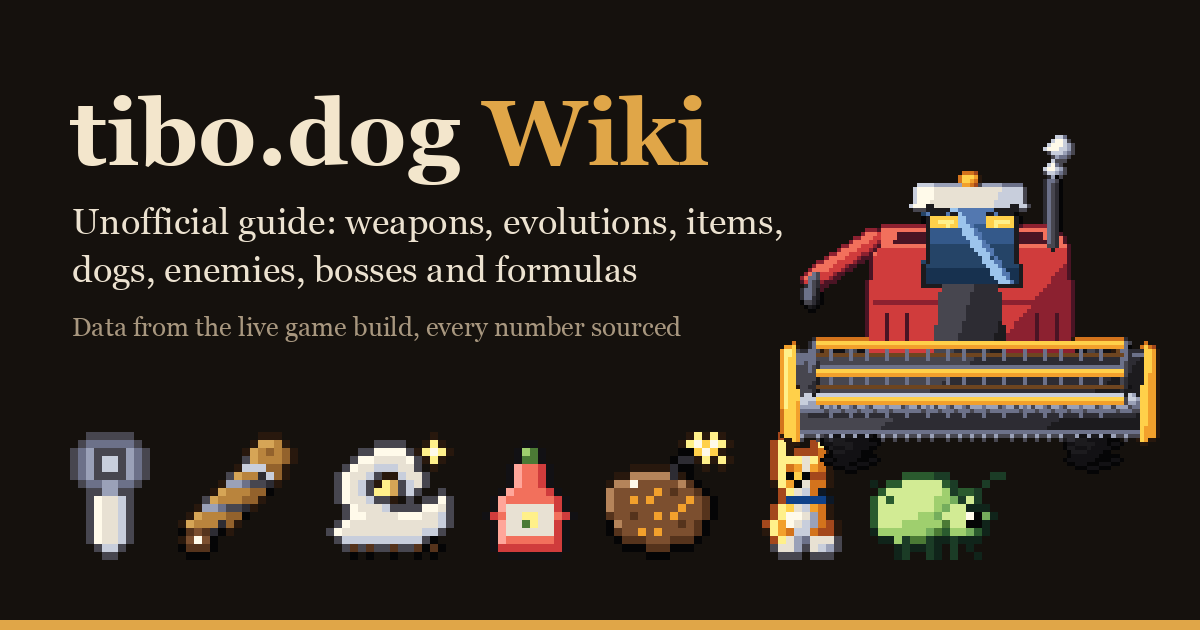
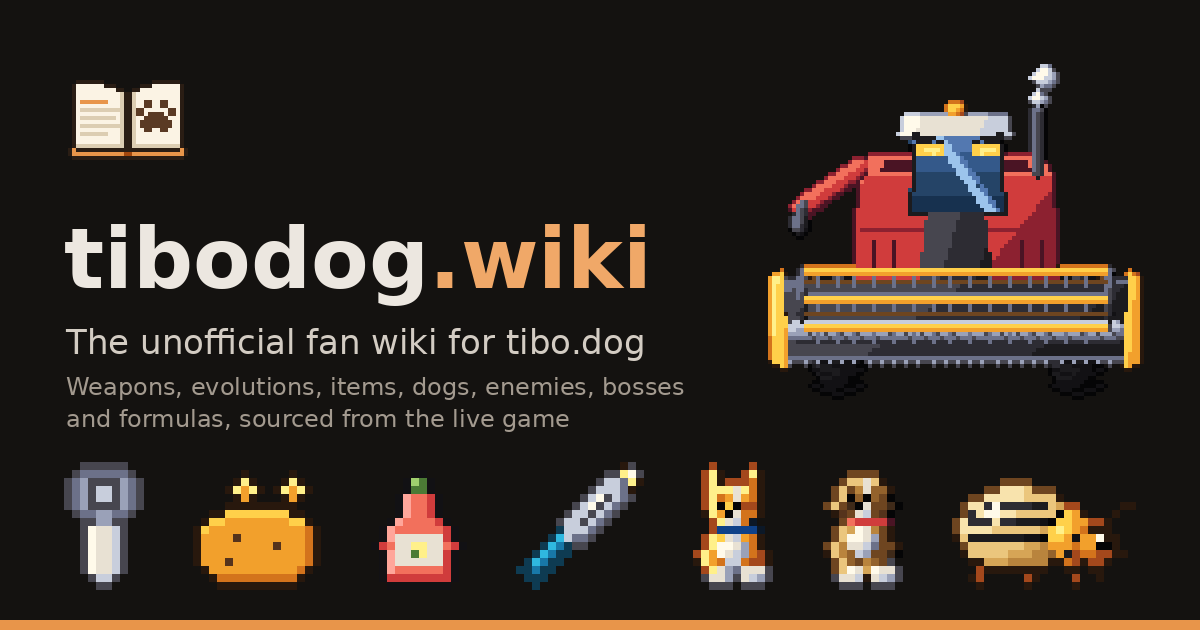
Brand the wiki as tibodog.wiki on its own domain
Canonical URLs, sitemap, robots, llms.txt, OpenAPI, API self-links and
tool user agents now use https://www.tibodog.wiki. The apex domain and
tibodog-wiki.vercel.app already redirect there at the Vercel domain level.

New original pixel mark (open book with a paw print) drawn by
tools/brand.py, with favicon.ico (16 px paw tile), apple-touch-icon and
a rebuilt link preview card. Header, titles, footer, about and metadata
name the site tibodog.wiki while keeping tibo.dog as the game and the
unofficial fan-wiki attribution.

Amp-Thread-ID: https://ampcode.com/threads/T-c385760b-659e-4f7b-9941-31a219189636

diff --git a/middleware.js b/middleware.js
@@ -6,7 +6,7 @@ const PAGES = new Set(PATHS);
 const API = new Set(API_PATHS);
 
 export const config = {
-  matcher: ['/((?!icons/|style\\.css|site\\.js|favicon\\.png|search-index\\.json|_vercel).*)'],
+  matcher: ['/((?!icons/|style\\.css|site\\.js|favicon\\.png|favicon\\.ico|logo\\.svg|apple-touch-icon\\.png|search-index\\.json|_vercel).*)'],
 };
 
 function wantsMarkdown(accept) {
@@ -23,7 +23,7 @@ function wantsMarkdown(accept) {
 }
 
 const mdNotFound = (path) =>
-  `# 404 Not Found\n\nThere is no page at \`${path}\` on the tibo.dog Wiki.\n\n- Main page: /index.md\n- Every page: /all-pages.md\n- Index for agents: /llms.txt\n- Data API: /api/index.json\n`;
+  `# 404 Not Found\n\nThere is no page at \`${path}\` on tibodog.wiki.\n\n- Main page: /index.md\n- Every page: /all-pages.md\n- Index for agents: /llms.txt\n- Data API: /api/index.json\n`;
 
 const json = (body, status = 200) =>
   new Response(JSON.stringify(body, null, 1), { status, headers: { 'content-type': 'application/json; charset=utf-8', 'cache-control': 'no-store', 'access-control-allow-origin': '*' } });
@@ -33,7 +33,7 @@ async function liveBuild() {
   const checkedAt = new Date().toISOString().replace(/\.\d+Z$/, 'Z');
   let main;
   try {
-    const res = await fetch('https://tibo.dog/', { cache: 'no-store', headers: { 'user-agent': 'tibodog-wiki live build check (+https://tibodog-wiki.vercel.app/versions)' }, signal: AbortSignal.timeout(8000) });
+    const res = await fetch('https://tibo.dog/', { cache: 'no-store', headers: { 'user-agent': 'tibodog-wiki live build check (+https://www.tibodog.wiki/versions)' }, signal: AbortSignal.timeout(8000) });
     if (!res.ok) throw new Error(`tibo.dog answered HTTP ${res.status}`);
     main = (await res.text()).match(/assets\/(main-[A-Za-z0-9_-]{8}\.js)/)?.[1];
     if (!main) throw new Error('no main-*.js script found in the tibo.dog page');

diff --git a/public/style.css b/public/style.css
@@ -1,4 +1,4 @@
-/* tibo.dog Wiki. One warm-neutral palette, one accent, a single sans-serif type scale. */
+/* tibodog.wiki. One warm-neutral palette, one accent, a single sans-serif type scale. */
 :root {
   --bg: #ffffff;
   --side: #faf9f7;

diff --git a/tools/brand.py b/tools/brand.py
@@ -1,0 +1,165 @@
+# Draws the tibodog.wiki brand kit: the pixel mark (open book with a paw print), favicons,
+# the Apple touch icon and the social preview card. Run: python3 -I tools/brand.py
+# The mark is original art for the fan wiki; the preview card also shows game sprites from public/icons.
+import io
+import os
+import struct
+from PIL import Image, ImageDraw, ImageFont
+
+ROOT = os.path.join(os.path.dirname(os.path.abspath(__file__)), '..')
+PUB = os.path.join(ROOT, 'public')
+FONT = os.environ.get('BRAND_FONT', '/usr/share/fonts/truetype/dejavu/DejaVuSans-Bold.ttf')
+
+COLORS = {
+    'K': '#2a1d14',  # outline
+    'C': '#fbf3e4',  # page
+    'S': '#dccdb2',  # page shade and text lines
+    'O': '#e8954a',  # cover, heading line (site --accent)
+    'D': '#a3470d',  # spine (site light --link)
+    'P': '#5a3a24',  # paw
+}
+
+PAW = [
+    '..PP..PP..',
+    '..PP..PP..',
+    'PP......PP',
+    'PP.PPPP.PP',
+    '..PPPPPP..',
+    '.PPPPPPPP.',
+    '.PPPPPPPP.',
+    '..PP..PP..',
+]
+
+PAGE = '..KCCCCCCCCCCCSKKSCCCCCCCCCCCK..'
+BOOK = [
+    '...KKKKKKK............KKKKKKK...',
+    '..KCCCCCCCKKK......KKKCCCCCCCK..',
+    '..KCCCCCCCCCCKK..KKCCCCCCCCCCK..',
+    *[PAGE] * 13,
+    '..KSSSSSSSSSSSSKKSSSSSSSSSSSSK..',
+    '.KOKKKKKKKKKKKKKKKKKKKKKKKKKKOK.',
+    '.KOOOOOOOOOOOOODDOOOOOOOOOOOOOK.',
+    '..KKKKKKKKKKKKKKKKKKKKKKKKKKKK..',
+]
+
+
+def put(grid, x, y, rows):
+    for j, row in enumerate(rows):
+        for i, c in enumerate(row):
+            if c != '.':
+                grid[y + j][x + i] = c
+
+
+def mark32():
+    g = [['.'] * 32 for _ in range(32)]
+    put(g, 0, 6, BOOK)
+    # Left page: an orange heading and four text lines.
+    for y, x0, x1, c in [(5, 4, 10, 'O'), (7, 4, 13, 'S'), (9, 4, 12, 'S'), (11, 4, 13, 'S'), (13, 4, 10, 'S')]:
+        for x in range(x0, x1 + 1):
+            g[6 + y][x] = c
+    put(g, 18, 6 + 5, PAW)  # right page
+    return g
+
+
+def tile16():
+    # Small sizes: the paw alone on an orange rounded tile, readable in a 16 px browser tab.
+    g = [['.'] * 16 for _ in range(16)]
+    for y in range(16):
+        for x in range(16):
+            corner = min(x, 15 - x) + min(y, 15 - y) < 2
+            if not corner:
+                g[y][x] = 'O'
+    put(g, 3, 4, [r.replace('P', 'C') for r in PAW])
+    return g
+
+
+def to_image(grid, scale=1):
+    h, w = len(grid), len(grid[0])
+    im = Image.new('RGBA', (w, h), (0, 0, 0, 0))
+    for y, row in enumerate(grid):
+        for x, c in enumerate(row):
+            if c != '.':
+                im.putpixel((x, y), Image.new('RGB', (1, 1), COLORS[c]).getpixel((0, 0)) + (255,))
+    return im.resize((w * scale, h * scale), Image.NEAREST)
+
+
+def to_svg(grid):
+    rects = []
+    for y, row in enumerate(grid):
+        x = 0
+        while x < len(row):
+            c = row[x]
+            n = 1
+            while x + n < len(row) and row[x + n] == c:
+                n += 1
+            if c != '.':
+                rects.append(f'<rect x="{x}" y="{y}" width="{n}" height="1" fill="{COLORS[c]}"/>')
+            x += n
+    body = ''.join(rects)
+    return (
+        '<svg xmlns="http://www.w3.org/2000/svg" viewBox="0 0 32 32" width="32" height="32" shape-rendering="crispEdges">'
+        f'<title>tibodog.wiki</title>{body}</svg>\n'
+    )
+
+
+def og(mark):
+    W, H = 1200, 630
+    im = Image.new('RGB', (W, H), '#141210')
+    d = ImageDraw.Draw(im)
+    d.rectangle([0, H - 10, W, H], fill=COLORS['O'])
+
+    def sprite(path, scale):
+        s = Image.open(os.path.join(PUB, 'icons', path)).convert('RGBA')
+        return s.resize((s.width * scale, s.height * scale), Image.NEAREST)
+
+    boss = sprite('boss/harvester.png', 1)
+    im.paste(boss, (W - boss.width - 56, 64), boss)
+
+    m = mark.resize((128, 128), Image.NEAREST)
+    im.paste(m, (64, 56), m)
+    word = ImageFont.truetype(FONT, 84)
+    x, y = 64, 210
+    d.text((x, y), 'tibodog', font=word, fill='#ece7e0')
+    d.text((x + d.textlength('tibodog', font=word), y), '.wiki', font=word, fill='#f0a868')
+    sub = ImageFont.truetype(FONT.replace('-Bold', ''), 34)
+    d.text((x + 2, 322), 'The unofficial fan wiki for tibo.dog', font=sub, fill='#d3ccc3')
+    small = ImageFont.truetype(FONT.replace('-Bold', ''), 24)
+    d.text((x + 2, 372), 'Weapons, evolutions, items, dogs, enemies, bosses', font=small, fill='#a39a8f')
+    d.text((x + 2, 404), 'and formulas, sourced from the live game', font=small, fill='#a39a8f')
+
+    row = ['weapon/peeler.png', 'weapon/hot-potato.png', 'passive/hot-sauce.png', 'item/sharp-peeler.png',
+           'dog/corgi.png', 'dog/beagle.png', 'enemy/potato-beetle.png']
+    sprites = [sprite(p, 2) for p in row]
+    gap = (W - 2 * 64 - sum(s.width for s in sprites)) / (len(sprites) - 1)
+    sx = 64
+    for s in sprites:
+        im.paste(s, (round(sx), H - 40 - s.height), s)
+        sx += s.width + gap
+    return im
+
+
+if __name__ == '__main__':
+    big = mark32()
+    mark = to_image(big)
+    with open(os.path.join(PUB, 'logo.svg'), 'w') as f:
+        f.write(to_svg(big))
+    to_image(big, 2).save(os.path.join(PUB, 'favicon.png'), optimize=True)
+    # favicon.ico with PNG frames: the paw tile at 16 px, the full mark at 32 and 64 px.
+    frames = []
+    for im in [to_image(tile16()), mark, to_image(big, 2)]:
+        buf = io.BytesIO()
+        im.save(buf, 'PNG', optimize=True)
+        frames.append((im.width, buf.getvalue()))
+    head = struct.pack('<HHH', 0, 1, len(frames))
+    offset, entries = 6 + 16 * len(frames), b''
+    for w, data in frames:
+        entries += struct.pack('<BBBBHHII', w % 256, w % 256, 0, 0, 1, 32, len(data), offset)
+        offset += len(data)
+    with open(os.path.join(PUB, 'favicon.ico'), 'wb') as f:
+        f.write(head + entries + b''.join(d for _, d in frames))
+    apple = Image.new('RGB', (180, 180), '#1b1916')
+    m4 = to_image(big, 5)
+    apple.paste(m4, ((180 - m4.width) // 2, (180 - m4.height) // 2), m4)
+    apple.save(os.path.join(PUB, 'apple-touch-icon.png'), optimize=True)
+    og(mark).save(os.path.join(PUB, 'og.png'), optimize=True)
+    print('wrote logo.svg favicon.png favicon.ico apple-touch-icon.png og.png')

diff --git a/.claude/skills/wiki-update/SKILL.md b/.claude/skills/wiki-update/SKILL.md
@@ -33,7 +33,7 @@ The Cloudflare detector (`tools/detector/`) checks tibo.dog every minute, archiv
 1. Checks, as separate commands: `node build.mjs`; `node tools/check-quotes.mjs .cache/<main>/assets` (0 unresolved; `--write` fixes quotes that moved verbatim); `node check-middleware.mjs`; `node --test tools/*.test.mjs pages/*.test.mjs tools/detector/*.test.mjs`; `git diff --check`.
 2. Commit, `git fetch`, rebase your own commits onto `origin/main`, rerun the checks, push.
 3. The push deploys production through Vercel's Git integration; do not create another deployment. Find the deployment for your SHA (team `team_ceF7ek1jhDCXPvwYHv5HrsGM`, project `prj_ezw3MZfNGIIQlXJSKRbpzexA2qtp`). Only if none appears within 2 minutes, create one production deployment for exactly that SHA.
-4. Done means live: wait for READY, then check `https://tibodog-wiki.vercel.app/api/index.json` `meta.wiki.commit` equals the latest `origin/main`, `/versions` shows no "Not reviewed yet", and each changed page shows the change. Inspect a screenshot of any changed layout.
+4. Done means live: wait for READY, then check `https://www.tibodog.wiki/api/index.json` `meta.wiki.commit` equals the latest `origin/main`, `/versions` shows no "Not reviewed yet", and each changed page shows the change. Inspect a screenshot of any changed layout.
 
 ## Keeping this skill small
 

diff --git a/AGENTS.md b/AGENTS.md
@@ -32,7 +32,7 @@ Many agents work in this repository at the same time: the monitor and its update
 - **Never force-push, `reset --hard`, or discard changes you did not make.** Other agents may share the checkout. Rebase only a tree whose uncommitted changes are your own.
 - **One deployment owner at a time.** A push to `main` does not deploy production on its own; someone creates the Vercel production deployment. During concurrent work, agree on a single deployer and do not race. If a coordinator or the monitor owns the deploy, push and hand over the commit SHA.
 - **Done means live.** Work is finished only when:
-  - the production deployment's commit equals `origin/main`, as reported by `/api/index.json` `meta.wiki.commit` on https://tibodog-wiki.vercel.app;
+  - the production deployment's commit equals `origin/main`, as reported by `/api/index.json` `meta.wiki.commit` on https://www.tibodog.wiki (the canonical domain; `tibodog.wiki` and `tibodog-wiki.vercel.app` redirect there);
   - the changed pages have been checked on production.
 
 ## When something is confusing
